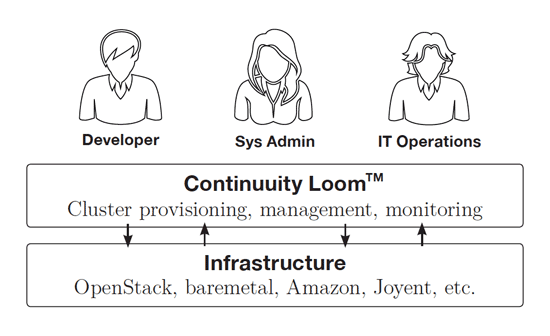
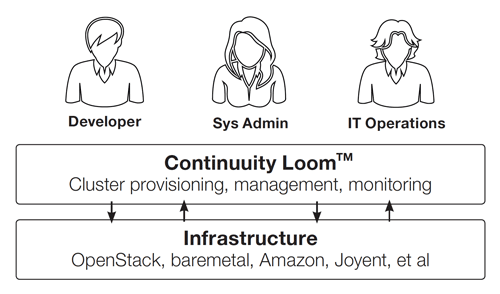
Loom diagram cleanup

Changed region(s): [[0.03, 0.0306, 0.99, 0.9796]]

diff --git a/docs/loom-docs/source/overview/index.rst b/docs/loom-docs/source/overview/index.rst
@@ -13,9 +13,7 @@ Through cluster templates, which can be created easily, administrators and users
 Loom exposes two primary user interfaces: Loom Admin and Loom User. Loom Admin makes it easy for administrators to create and maintain complex cluster templates across multiple IaaS clouds, while Loom User makes it easy for any user to select and build complex clusters using these templates. Effectively, this empowers the users, eliminating the need for filing tickets or fighting to configure complicated clusters. In essence, Loom has been designed to offer a comprehensive self-service provisioning system.
 
 .. figure:: /_images/loom-diagram.png
-    :width: 489px
     :align: center
-    :height: 286px
     :alt: alternate text
     :figclass: align-center
 
